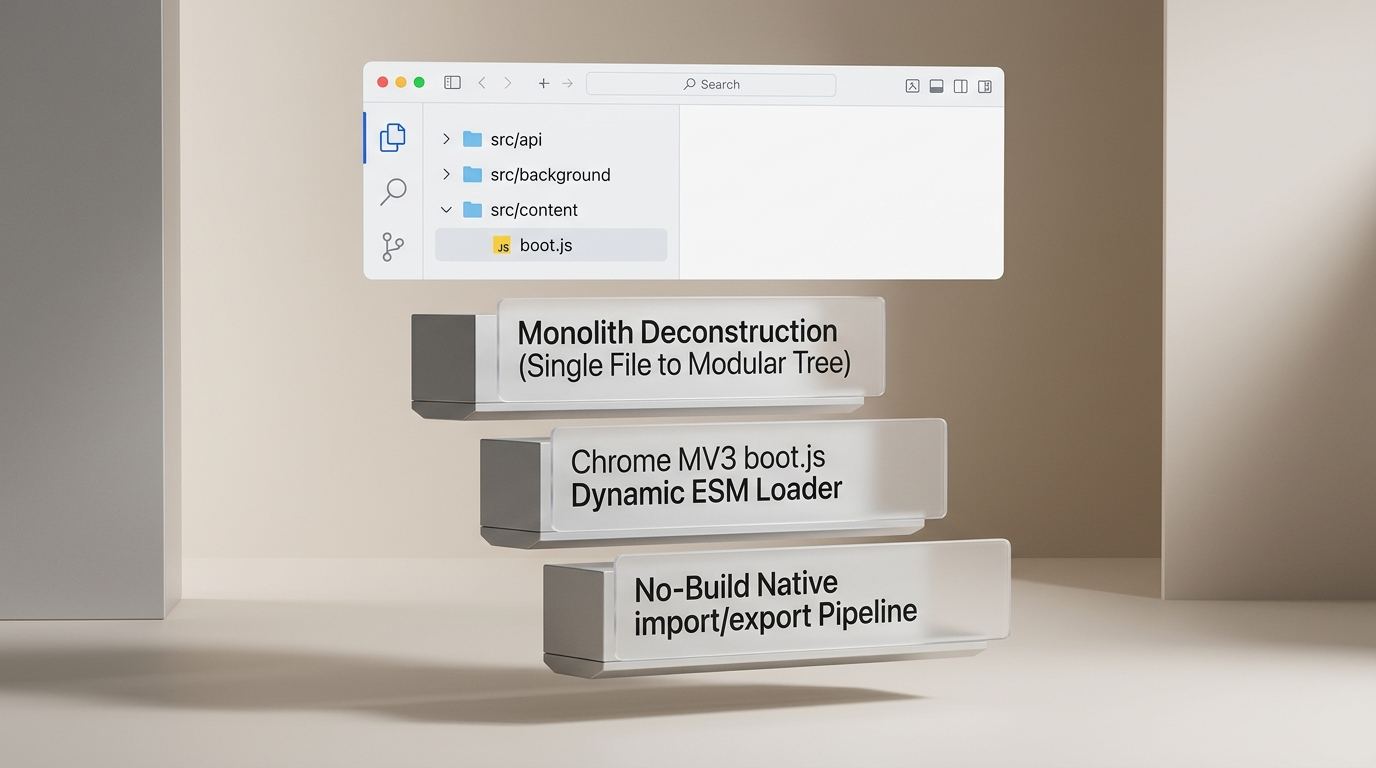
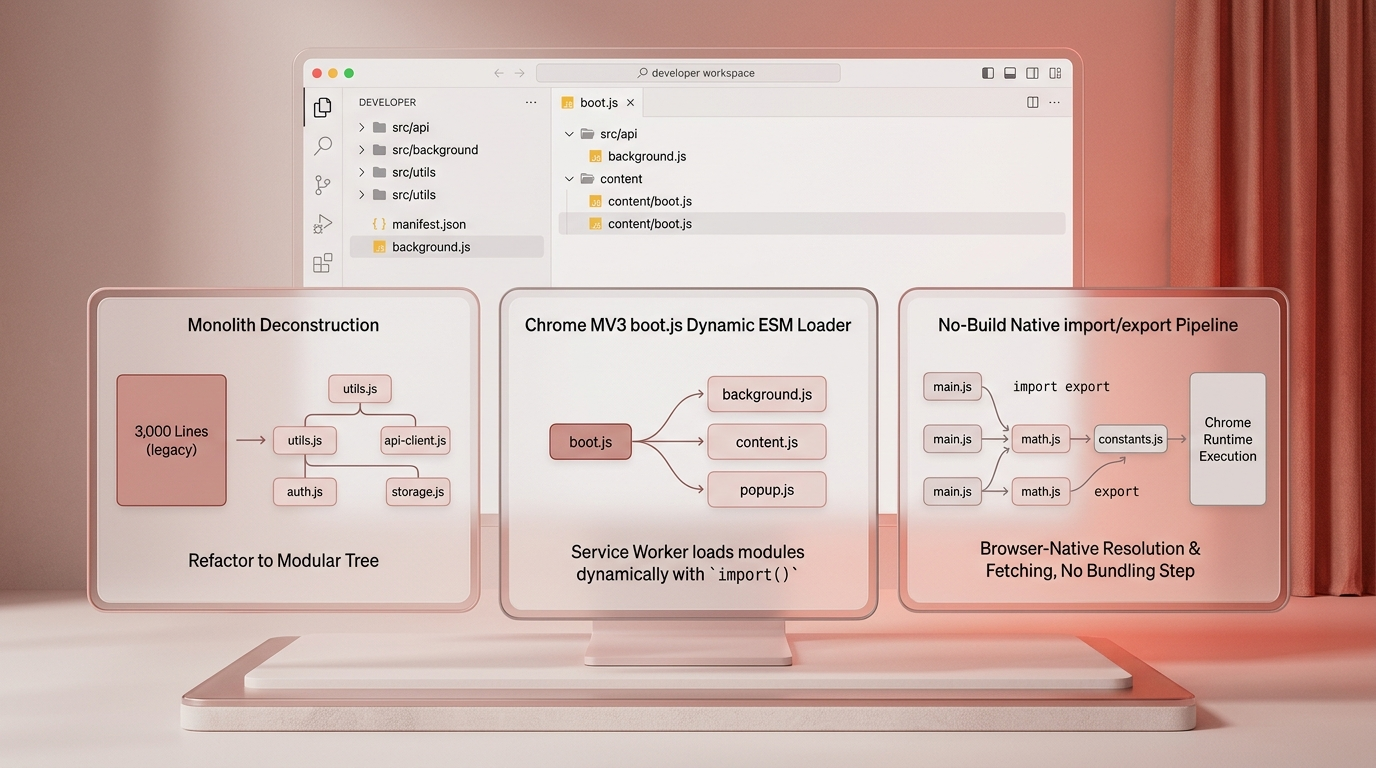
Update feedback: regenerate 13th image with warm red tint and refine text

diff --git a/Blog_Posts/2026-08/webtranslator-13-modularization-and-native-esm.html b/Blog_Posts/2026-08/webtranslator-13-modularization-and-native-esm.html
@@ -1,12 +1,12 @@
 <!-- ============================================================
   [BLOG POST METADATA - Blogspot 설정창 복사용]
-  Title: [WebTranslator 개발기 #13] 3,000줄 단일 파일 붕괴와 크롬 MV3 네이티브 ES 모듈 전환
+  Title: [WebTranslator 개발기 #13] 3,000줄 단일 파일의 한계와 크롬 MV3 네이티브 ES 모듈 전환
   Labels (Tags): WebTranslator, ChromeExtension, 크롬확장프로그램, 모듈화, ESModules, ESM, boot_js, ManifestV3, 트러블슈팅
   Meta Description: 3,000줄을 돌파한 단일 모놀리스 스크립트의 유지보수 한계를 분석하고, 번들러 없이 크롬 MV3 환경에서 boot.js 동적 부트로더를 통해 네이티브 ES 모듈 아키텍처를 구축한 과정을 정리합니다.
   Slug: webtranslator-13-modularization-and-native-esm
   ---
   Primary Keyword: 크롬 확장 프로그램 모듈화
-  Secondary Keywords: Chrome MV3 ES Modules, boot.js 동적 로딩, web_accessible_resources, content script import, 노빌드 아키텍처
+  Secondary Keywords: Chrome MV3 ES Modules, boot.js 동적 로딩, web_accessible_resources, content script import, 노빌드 모듈화
   Knowledge Source: Knowledge/webtranslator-13-modularization-and-native-esm/Troubleshooting/webtranslator-13-modularization-and-native-esm-2026-08-19.md
   Generated Date: 2026-08-19
   Estimated Read Time: 9분
@@ -19,13 +19,13 @@
   <img src="https://cdn.jsdelivr.net/gh/noogyung/Blog_Core-Archive@main/images/2026-08/webtranslator-13-modularization-and-native-esm-img1.jpg" alt="WebTranslator 3,000줄 단일 파일 분해 및 크롬 MV3 네이티브 ES 모듈 부트로더 아키텍처 다이어그램">
 
   <p>
-    다중 번역 엔진 연동, 듀얼 렌더러, 단어 사전, 큐 기반 재시도 로직까지 살을 붙여 나가다 보니 <code>content.js</code>와 <code>background.js</code>의 코드 길이가 각각 <strong>3,000줄을 돌파</strong>하는 상황을 겪게 되었습니다. 수천 줄짜리 단일 거대 파일(Monolith)에서는 2,800번째 줄의 괄호 하나나 사소한 문법 오타만으로도 확장 프로그램 전체가 작동을 멈췄고, 코드 탐색과 디버깅 비용이 걷잡을 수 없이 커졌습니다. 이번 글에서는 번들러 없이 크롬 Manifest V3 환경에서 <strong>네이티브 ES 모듈(ESM)</strong> 구조로 전환하며 마주한 제약과 해결 과정을 살펴보고자 합니다.
+    다중 번역 엔진 연동, 듀얼 렌더러, 단어 사전, 큐 기반 재시도 로직까지 살을 붙여 나가다 보니 <code>content.js</code>와 <code>background.js</code>의 코드 길이가 각각 <strong>3,000줄을 돌파</strong>하는 상황을 겪게 되었습니다. 특히 AI 에이전트와 페어 프로그래밍을 진행할 때 거대한 단일 파일은 큰 걸림돌이 되었습니다. AI가 파일 전체의 문맥을 한 번에 다루다 보니 엉뚱한 줄의 코드를 건드리거나, 사소한 괄호 오타 하나로 확장 프로그램 전체가 먹통이 되는 디버깅 문제가 빈번하게 일어났습니다. 이번 글에서는 3,000줄 단일 파일을 분리하고, 번들러 없이 크롬 Manifest V3 환경에서 <strong>네이티브 ES 모듈(ESM)</strong> 구조로 전환한 과정을 정리하고자 합니다.
   </p>
 
-  <h2 id="monolith-limitations-and-no-build-philosophy">1. 거대 단일 파일의 한계와 노빌드(No-Build) 철학</h2>
+  <h2 id="monolith-limitations-and-no-build-choice">1. 거대 단일 파일의 한계와 번들러 없는 네이티브 모듈 선택</h2>
 
   <p>
-    3,000줄 모놀리스 스크립트의 한계를 체감한 후 리팩토링 방향성을 고민할 때, 가장 먼저 떠오른 것은 Webpack이나 Vite 같은 모던 번들러 도입이었습니다. 그러나 개인 개발용 웹 확장 프로그램에서 무거운 번들러를 도입하는 것에는 분명한 명암이 존재했습니다:
+    거대 단일 파일의 한계를 체감한 후 리팩토링 방식을 고민할 때, Webpack이나 Vite 같은 모던 번들러 도입과 번들러 없는 네이티브 ES 모듈(ESM) 방식을 비교 검토했습니다:
   </p>
 
   <div class="table w100 withBg">
@@ -39,32 +39,32 @@
       </thead>
       <tbody>
         <tr>
-          <td><strong>빌드 단계</strong></td>
-          <td>코드 수정 시마다 빌드 명령어(<code>npm run build</code>) 필수</td>
-          <td><strong>빌드 단계 없음 (저장 후 즉시 새로고침)</strong></td>
+          <td><strong>장점</strong></td>
+          <td>여러 모듈을 단일 파일로 묶어 배포가 깔끔하고 구형 브라우저 호환성 처리가 수월함</td>
+          <td><strong>별도의 빌드 과정 없이 코드 저장 후 브라우저 새로고침만으로 즉시 반영됨</strong></td>
         </tr>
         <tr>
-          <td><strong>디버깅 편의성</strong></td>
-          <td>Source Map 필요, 번들링 결과물 난독화</td>
-          <td><strong>원본 소스 파일 그대로 브라우저에서 실시간 추적</strong></td>
+          <td><strong>단점</strong></td>
+          <td><strong>코드 한 줄을 고칠 때마다 매번 다시 빌드(<code>npm run build</code>)해야 해서 디버깅이 번거로움</strong></td>
+          <td>모듈 파일이 늘어날수록 파일 간 의존성 연결과 매니페스트 권한을 직접 꼼꼼히 관리해야 함</td>
         </tr>
         <tr>
-          <td><strong>주요 관리 포인트</strong></td>
-          <td>복잡한 번들러 설정 파일 및 의존성 패키지 관리</td>
-          <td>모듈 간 결합도 및 브라우저 권한(<code>web_accessible_resources</code>) 관리</td>
+          <td><strong>개발 환경</strong></td>
+          <td>복잡한 번들러 설정 및 외부 패키지 설치 필요</td>
+          <td><strong>브라우저 표준 문법(<code>import/export</code>)만으로 가볍고 빠르게 동작</strong></td>
         </tr>
       </tbody>
     </table>
   </div>
 
   <p>
-    코드 수정 즉시 브라우저에서 원본 소스 단위로 디버깅할 수 있는 생산성을 확보하기 위해, 별도의 번들러를 쓰지 않고 브라우저 표준 <strong>네이티브 ES 모듈(<code>import/export</code>)</strong>만을 활용하여 구조를 재설계하기로 결정했습니다.
+    개발 과정에서 코드를 수정하자마자 브라우저에서 바로 확인하고 디버깅할 수 있는 빠른 피드백 루프를 갖추기 위해, 별도의 번들러를 쓰지 않고 브라우저 표준 <strong>네이티브 ES 모듈</strong> 방식을 선택했습니다.
   </p>
 
   <h2 id="manifest-v3-content-script-esm-barrier">2. 크롬 MV3 Content Script의 모듈 제약과 전면 마비</h2>
 
   <p>
-    디렉토리를 <code>src/api</code>, <code>src/background</code>, <code>src/content</code>, <code>src/options</code>로 분리하고 코드를 쪼갠 뒤 설레는 마음으로 확장 프로그램을 브라우저에 로드했습니다. 그러나 실행하자마자 확장 프로그램이 전면 마비되었습니다:
+    디렉토리를 <code>src/api</code>, <code>src/background</code>, <code>src/content</code>, <code>src/options</code>로 분리하고 코드를 쪼갠 뒤 확장 프로그램을 브라우저에 로드하자마자 전면 마비 현상이 발생했습니다:
   </p>
 
   <div class="note wr">
@@ -78,7 +78,7 @@
   <h2 id="boot-js-dynamic-loader-architecture">3. boot.js 동적 부트로더와 리소스 권한 연동</h2>
 
   <p>
-    이 제약을 극복하기 위해, 매니페스트에는 아주 가벼운 비모듈 진입점 파일인 <code>src/content/boot.js</code>만 등록하고, 내부에서 비동기 <code>import()</code> 함수를 실행하여 실제 Content Script 모듈 트리를 끌어오는 <strong>부트로더(Bootloader) 아키텍처</strong>를 구축했습니다.
+    이 제약을 해결하기 위해, 매니페스트에는 아주 가벼운 비모듈 진입점 파일인 <code>src/content/boot.js</code>만 등록하고, 내부에서 비동기 <code>import()</code> 함수를 실행하여 실제 Content Script 모듈 트리를 끌어오는 <strong>부트로더(Bootloader) 구조</strong>를 구현했습니다.
   </p>
 
   <ol class="step">
@@ -125,10 +125,10 @@
 }</pre>
   </div>
 
-  <h2 id="refactoring-experience-rollback-vs-breakthrough">4. 리팩토링 디버깅 경험: 롤백과 정면 돌파의 균형</h2>
+  <h2 id="refactoring-experience-rollback-vs-breakthrough">4. 리팩토링 디버깅 경험: 롤백과 정면 돌파의 판단 기준</h2>
 
   <p>
-    부트로더를 뚫어낸 직후에도 모듈 간 참조가 끊기며 <code>ReferenceError: isOurElement is not defined</code>와 같은 오류가 연이어 발생했습니다. 거대한 코드베이스를 분해하는 과정에서 얻은 주요 실전 판단 기준은 다음과 같습니다:
+    부트로더를 뚫어낸 직후에도 모듈 간 참조가 끊기며 <code>ReferenceError</code>가 발생하는 등 시행착오가 이어졌습니다. 대규모 리팩토링 과정에서 얻은 판단 기준은 다음과 같습니다:
   </p>
 
   <ul class="pros">

diff --git a/Knowledge/webtranslator-13-modularization-and-native-esm/Troubleshooting/webtranslator-13-modularization-and-native-esm-2026-08-19.md b/Knowledge/webtranslator-13-modularization-and-native-esm/Troubleshooting/webtranslator-13-modularization-and-native-esm-2026-08-19.md
@@ -1,6 +1,6 @@
 ---
 topic: webtranslator-13-modularization-and-native-esm
-title_kr: 3,000줄 단일 파일 붕괴와 크롬 MV3 네이티브 ES 모듈 전환
+title_kr: 3,000줄 단일 파일의 한계와 크롬 MV3 네이티브 ES 모듈 전환
 category: Troubleshooting
 sub_category: Architecture-Refactoring
 version: 1.4.0
